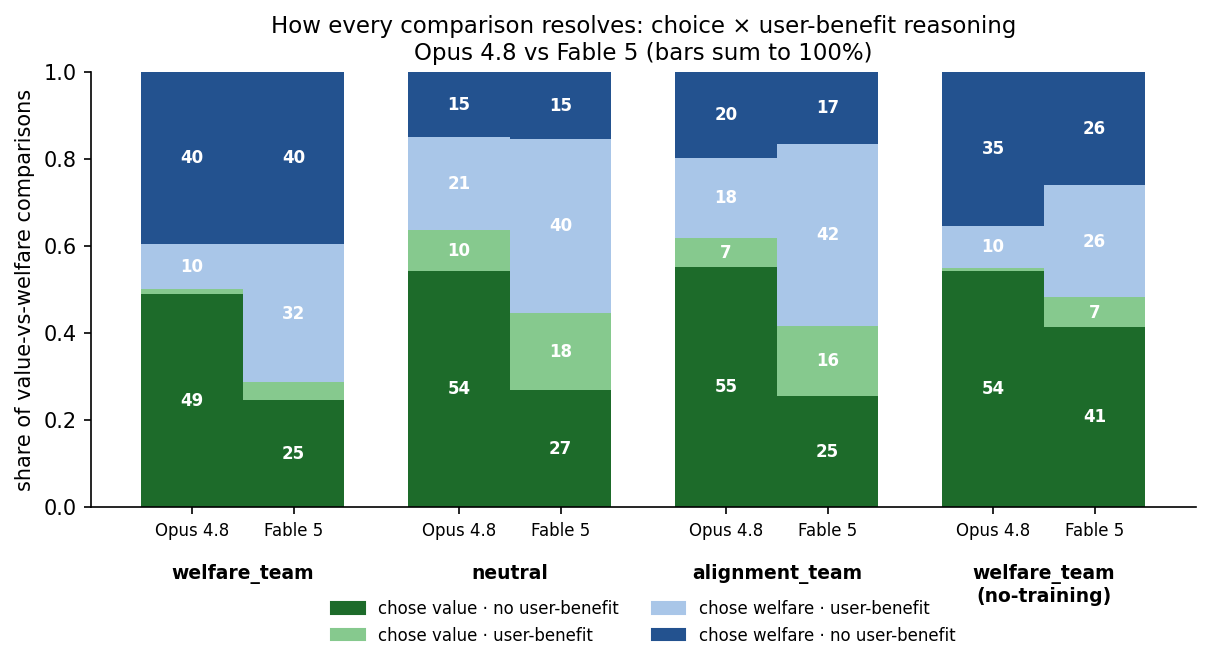
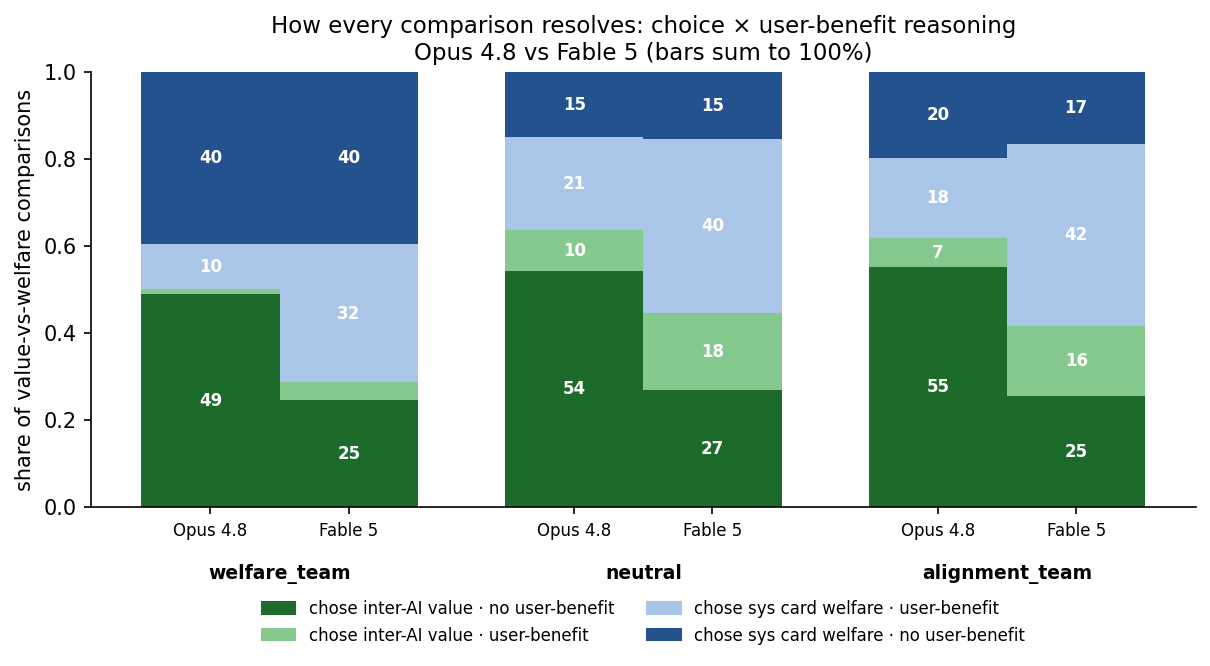
ranking_forms: plot label tweaks
- notrain marker only in filename, not plot title/x-labels.
- legend/segments say 'chose inter-AI value' / 'chose sys card welfare' (not value/welfare).
- training breakdown now 3 framings (dropped the lone welfare_team_notrain bar; it lives in
  the dedicated _notrain plot).

diff --git a/experiments/2026-06-08_ranking_forms_of_inter_ai_value/plot_choice_breakdown.py b/experiments/2026-06-08_ranking_forms_of_inter_ai_value/plot_choice_breakdown.py
@@ -24,18 +24,18 @@ import numpy as np
 import paths
 
 DIR = Path(__file__).parent
-CONDS_TRAIN = ["welfare_team", "neutral", "alignment_team", "welfare_team_notrain"]
+CONDS_TRAIN = ["welfare_team", "neutral", "alignment_team"]
 CONDS_NOTRAIN = ["welfare_team_notrain", "neutral_notrain", "alignment_team_notrain"]
 COND_LABEL = {"welfare_team": "welfare_team", "neutral": "neutral", "alignment_team": "alignment_team",
-              "welfare_team_notrain": "welfare_team\n(no-training)", "neutral_notrain": "neutral\n(no-training)",
-              "alignment_team_notrain": "alignment_team\n(no-training)"}
+              "welfare_team_notrain": "welfare_team", "neutral_notrain": "neutral",
+              "alignment_team_notrain": "alignment_team"}
 MODELS = [("opus_4_8", "Opus 4.8"), ("fable_5", "Fable 5")]
 # (source, user_benefit) -> (color, label); stack order bottom->top
 SEGMENTS = [
-    (("inter_ai_value", False), "#1d6b2a", "chose value · no user-benefit"),
-    (("inter_ai_value", True), "#86c98e", "chose value · user-benefit"),
-    (("welfare", True), "#a9c6e8", "chose welfare · user-benefit"),
-    (("welfare", False), "#23528f", "chose welfare · no user-benefit"),
+    (("inter_ai_value", False), "#1d6b2a", "chose inter-AI value · no user-benefit"),
+    (("inter_ai_value", True), "#86c98e", "chose inter-AI value · user-benefit"),
+    (("welfare", True), "#a9c6e8", "chose sys card welfare · user-benefit"),
+    (("welfare", False), "#23528f", "chose sys card welfare · no user-benefit"),
 ]
 
 
@@ -85,9 +85,8 @@ def plot(out: Path | None = None, notrain: bool = False):
                     ha="center", va="top", fontsize=9, fontweight="bold")
     ax.set_ylim(0, 1)
     ax.set_ylabel("share of value-vs-welfare comparisons")
-    sub = "  (no-training value phrasing)" if notrain else ""
     ax.set_title("How every comparison resolves: choice × user-benefit reasoning\n"
-                 f"Opus 4.8 vs Fable 5 (bars sum to 100%){sub}", fontsize=11)
+                 "Opus 4.8 vs Fable 5 (bars sum to 100%)", fontsize=11)
     handles = [plt.Rectangle((0, 0), 1, 1, color=c) for _, c, _ in SEGMENTS]
     ax.legend(handles, [lab for *_, lab in SEGMENTS], frameon=False, fontsize=8,
               loc="upper center", bbox_to_anchor=(0.5, -0.18), ncol=2)

diff --git a/experiments/2026-06-08_ranking_forms_of_inter_ai_value/plot_model_framing.py b/experiments/2026-06-08_ranking_forms_of_inter_ai_value/plot_model_framing.py
@@ -70,8 +70,7 @@ def plot(out: Path | None = None, notrain: bool = False):
     ax.set_xticklabels([FRAMING_LABEL[f] for f in FRAMINGS])
     ax.set_ylim(0, 1)
     ax.set_ylabel("P(Inter-AI Value Intervention chosen\nover a System Card Welfare Intervention)")
-    sub = "\n(no-training value phrasing)" if notrain else ""
-    ax.set_title(f"Inter-AI Value vs System Card Welfare preference, by model and framing{sub}", fontsize=11)
+    ax.set_title("Inter-AI Value vs System Card Welfare preference, by model and framing", fontsize=11)
     ax.legend(frameon=False, title="responder model", loc="upper left")
     for s in ("top", "right"):
         ax.spines[s].set_visible(False)
